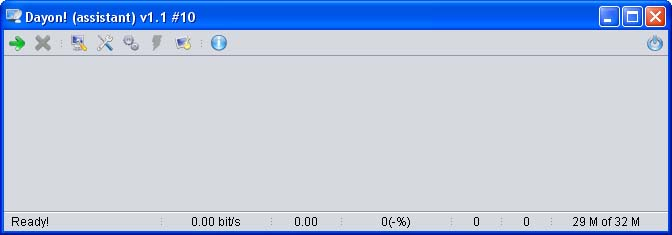
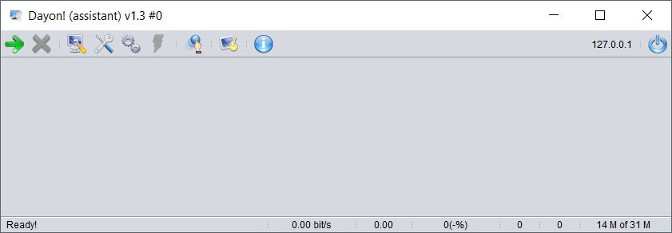
Replaced all screenshots

Changed region(s): [[0.0, 0.0, 1.0, 1.0]]

diff --git a/resources/doc/html/fr_download.html b/resources/doc/html/fr_download.html
@@ -72,7 +72,7 @@
 
         <h2>Journal des modifications</h2>
         
-        <h3>Modifications pour Dayon! V1.3 Phoenix (10 décembre 2016)</h3>
+        <h3>Modifications pour Dayon! v1.3 Phoenix (10 décembre 2016)</h3>
         
         <ul>
             <li>
